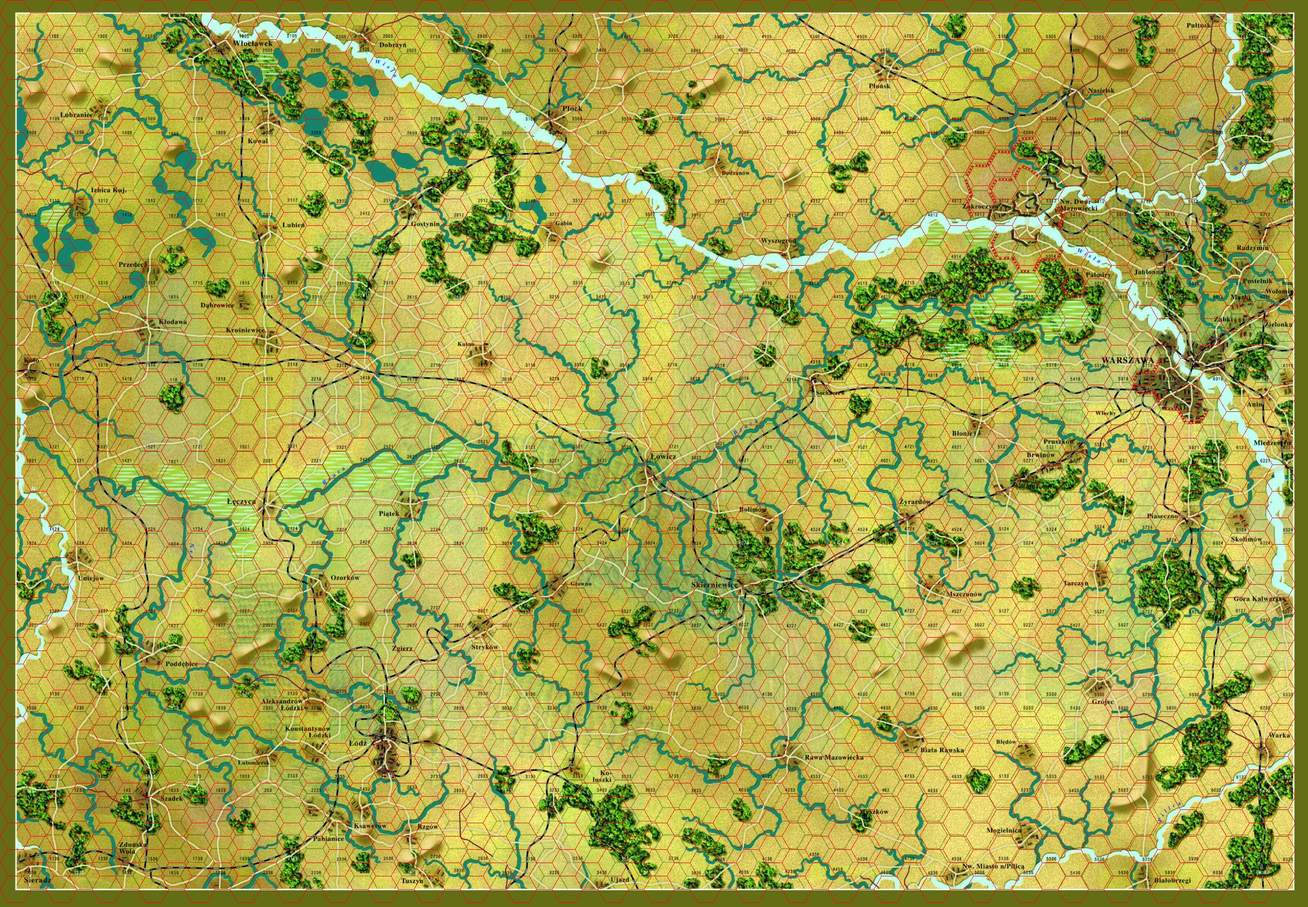
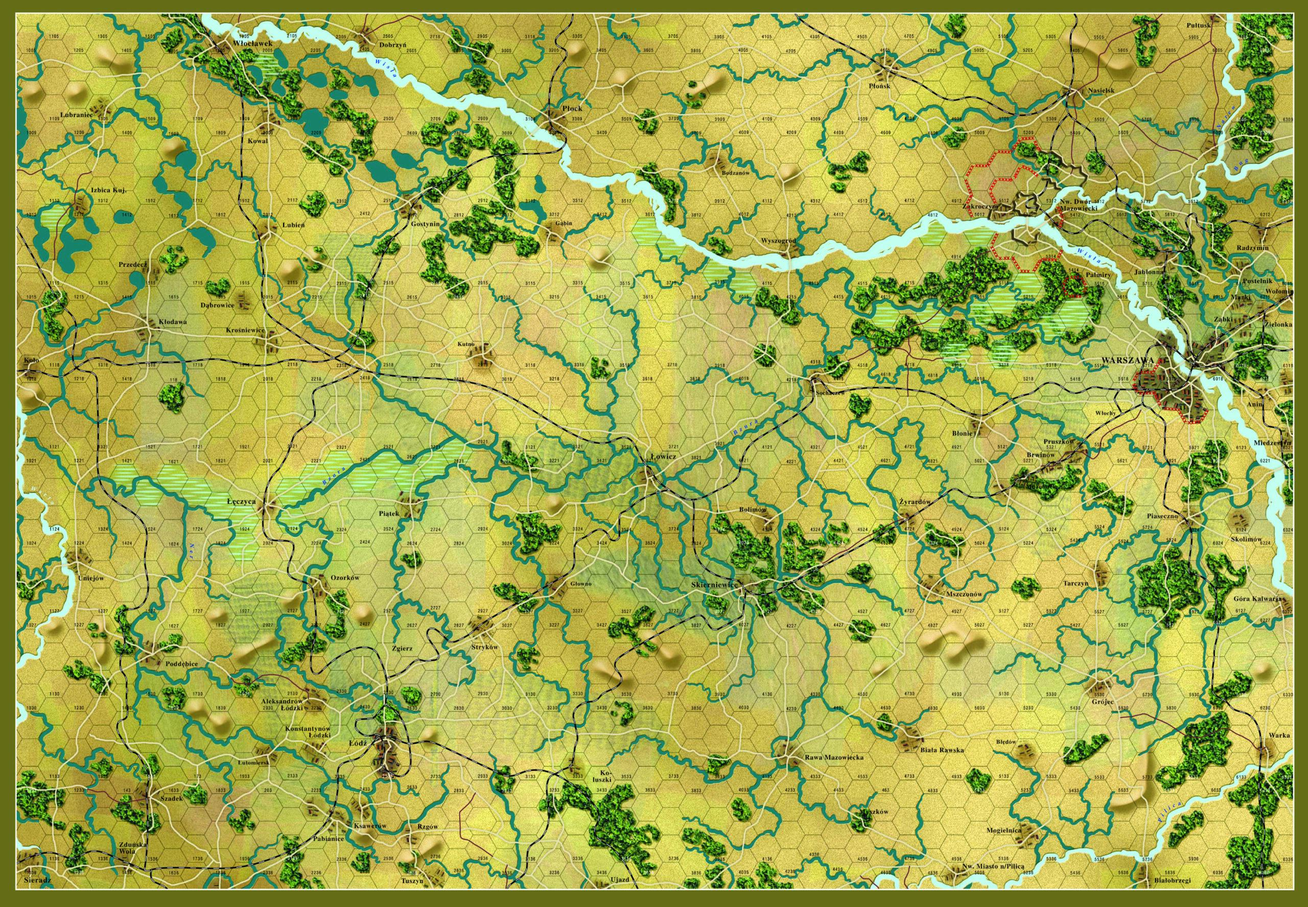
Eksport projektu

Changed region(s): [[0.0, 0.0, 1.0, 1.0]]

diff --git a/stare kody/edytor testy/map_editor_prototyptest1.py b/stare kody/edytor testy/map_editor_prototyptest1.py
@@ -79,6 +79,13 @@ def get_hex_vertices(center_x, center_y, s):
         (center_x - s/2, center_y + (math.sqrt(3)/2)*s)
     ]
 
+# Ścieżki docelowe w folderze mapa_cyfrowa
+DEST_FOLDER = "c:/Users/klif/kampania1939_fixed/gui/mapa_cyfrowa"
+DEST_GLOBAL_MAP = f"{DEST_FOLDER}/mapa_globalna.jpg"
+DEST_COMMANDER1_MAP = f"{DEST_FOLDER}/mapa_dowodca1.jpg"
+DEST_COMMANDER2_MAP = f"{DEST_FOLDER}/mapa_dowodca2.jpg"
+DEST_DATA_FILE = f"{DEST_FOLDER}/mapa_dane.json"
+
 class MapEditor:
     def __init__(self, root, config):
         self.root = root
@@ -427,105 +434,45 @@ class MapEditor:
             self.draw_grid()
             messagebox.showinfo("Zresetowano", "Mapa została zresetowana do domyślnego terenu płaskiego.")
 
-    def save_map_as_image(self):
-        'Zapisuje obrazy mapy (globalnej i podmap) oraz dane JSON.'
-        base_dir = DEFAULT_MAP_DIR
-        global_dir = os.path.join(base_dir, "global")
-        podmap1_dir = os.path.join(base_dir, "podmapa1")
-        podmap2_dir = os.path.join(base_dir, "podmapa2")
-        # Tworzenie folderów, jeśli nie istnieją
-        os.makedirs(global_dir, exist_ok=True)
-        os.makedirs(podmap1_dir, exist_ok=True)
-        os.makedirs(podmap2_dir, exist_ok=True)
-
-        # Ścieżki plików wyjściowych
-        image_path = os.path.join(global_dir, "mapa_hex.png")
-        data_path = os.path.join(global_dir, "mapa_dane.json")
-        podmap1_image_path = os.path.join(podmap1_dir, "mapa_hex.png")
-        podmap2_image_path = os.path.join(podmap2_dir, "mapa_hex.png")
+    def save_files(self):
+        """Zapisuje pliki map i dane JSON do folderu mapa_cyfrowa."""
+        # Tworzenie folderu, jeśli nie istnieje
+        os.makedirs(DEST_FOLDER, exist_ok=True)
 
         try:
-            draw_labels = False  # Etykiety ruch/obrona wyłączone
+            # Zapisanie mapy globalnej
+            self.bg_image.save(DEST_GLOBAL_MAP)
+            print(f"[INFO] Zapisano mapę globalną: {DEST_GLOBAL_MAP}")
 
-            # --- Rysowanie mapy globalnej ---
-            img = self.bg_image.copy().convert("RGBA")
-            draw = ImageDraw.Draw(img)
-
-            s = self.hex_size
-            hex_height = math.sqrt(3) * s
-            horizontal_spacing = 1.5 * s
-            grid_cols = self.config.get("grid_cols")
-            grid_rows = self.config.get("grid_rows")
-
-            for col in range(grid_cols):
-                center_x = s + col * horizontal_spacing
-                for row in range(grid_rows):
-                    center_y = (s * math.sqrt(3) / 2) + row * hex_height
-                    if col % 2 == 1:
-                        center_y += hex_height / 2
-                    if center_x + s > self.world_width or center_y + (s * math.sqrt(3) / 2) > self.world_height:
-                        continue
-                    points = get_hex_vertices(center_x, center_y, s)
-                    draw.polygon(points, outline="red")
-
-            img.save(image_path)
-
-            # --- Tworzenie podmap (górna i dolna połowa) ---
+            # Zapisanie map dowódców (przykład: podział na pół mapy)
             mid_pixel = self.world_height // 2
-            img_top = img.crop((0, 0, self.world_width, mid_pixel))
-            img_bottom = img.crop((0, mid_pixel, self.world_width, self.world_height))
-            img_top.save(podmap1_image_path)
-            img_bottom.save(podmap2_image_path)
+            img_top = self.bg_image.crop((0, 0, self.world_width, mid_pixel))
+            img_bottom = self.bg_image.crop((0, mid_pixel, self.world_width, self.world_height))
+            img_top.save(DEST_COMMANDER1_MAP)
+            img_bottom.save(DEST_COMMANDER2_MAP)
+            print(f"[INFO] Zapisano mapy dowódców: {DEST_COMMANDER1_MAP}, {DEST_COMMANDER2_MAP}")
 
-            # Przygotowanie danych JSON
-            terrain1 = {}
-            terrain2 = {}
-            spawn1 = {}
-            spawn2 = {}
-
-            for hex_id, terrain in self.hex_data.items():
-                row = int(hex_id.split('_')[1])
-                if row < grid_rows // 2:
-                    terrain1[hex_id] = terrain
-                else:
-                    terrain2[hex_id] = terrain
-
-            for nation, hexes in self.spawn_points.items():
-                spawn1[nation] = []
-                spawn2[nation] = []
-                for hex_id in hexes:
-                    row = int(hex_id.split('_')[1])
-                    if row < grid_rows // 2:
-                        spawn1[nation].append(hex_id)
-                    else:
-                        spawn2[nation].append(hex_id)
-
-            map_global = {
+            # Zapisanie danych JSON
+            map_data = {
                 "terrain": self.hex_data,
-                "spawn_points": self.spawn_points,
-                "image_path": "global/mapa_hex.png"
+                "key_points": self.key_points,
+                "spawn_points": self.spawn_points
             }
-            map_sub1 = {
-                "terrain": terrain1,
-                "spawn_points": spawn1,
-                "image_path": "podmapa1/mapa_hex.png"
-            }
-            map_sub2 = {
-                "terrain": terrain2,
-                "spawn_points": spawn2,
-                "image_path": "podmapa2/mapa_hex.png"
-            }
-            full_data = {
-                "global": map_global,
-                "podmapa1": map_sub1,
-                "podmapa2": map_sub2
-            }
-            with open(data_path, "w", encoding="utf-8") as f:
-                json.dump(full_data, f, indent=2, ensure_ascii=False)
+            with open(DEST_DATA_FILE, "w", encoding="utf-8") as f:
+                json.dump(map_data, f, indent=2, ensure_ascii=False)
+            print(f"[INFO] Zapisano dane mapy: {DEST_DATA_FILE}")
 
-            messagebox.showinfo("Zapisano", f"Mapa globalna i podmapy zapisano w:\n{global_dir}\n{podmap1_dir}\n{podmap2_dir}")
         except Exception as e:
-            messagebox.showerror("Błąd", f"Nie udało się zapisać mapy:\n{str(e)}")
+            print(f"[ERROR] Nie udało się zapisać plików: {e}")
+
+    def save_map_as_image(self):
+        """Zapisuje obrazy mapy i dane JSON."""
+        try:
+            # Zapisz mapę globalną i dane
+            self.save_files()
+            print("[INFO] Mapa i dane zostały zapisane w folderze mapa_cyfrowa.")
+        except Exception as e:
+            print(f"[ERROR] Nie udało się zapisać mapy: {e}")
 
     def add_key_point_dialog(self):
         'Okno dialogowe do dodawania kluczowego punktu na wybranym heksie.'

diff --git a/model/gracz.py b/model/gracz.py
@@ -28,9 +28,15 @@ class Gracz:
         elif self.nacja == "Niemcy" and self.rola == "Generał":
             self.image_path = base_path + "Generał pułkownik Walther von Brauchitsch.png"
         elif self.nacja == "Polska" and self.rola == "Dowódca":
-            self.image_path = base_path + "Generał Tadeusz Kutrzeba.png"
+            if self.numer == 2:  # Dowódca 2 Polska
+                self.image_path = base_path + "Generał Juliusz Rómmel.png"
+            else:  # Dowódca 1 Polska
+                self.image_path = base_path + "Generał Tadeusz Kutrzeba.png"
         elif self.nacja == "Niemcy" and self.rola == "Dowódca":
-            self.image_path = base_path + "Generał Fedor von Bock.png"
+            if self.numer == 6:  # Dowódca 2 Niemcy
+                self.image_path = base_path + "Generał Walther von Reichenau.png"
+            else:  # Dowódca 1 Niemcy
+                self.image_path = base_path + "Generał Fedor von Bock.png"
         else:
             self.image_path = base_path + "default.png"  # Domyślny obraz, jeśli nie pasuje żadna rola/nacja
 
@@ -40,9 +46,15 @@ class Gracz:
         elif self.nacja == "Niemcy" and self.rola == "Generał":
             self.map_path = "c:/Users/klif/kampania1939_fixed/gui/mapa_cyfrowa/mapa_globalna.jpg"
         elif self.nacja == "Polska" and self.rola == "Dowódca":
-            self.map_path = "c:/Users/klif/kampania1939_fixed/gui/mapa_cyfrowa/mapa_dowodca1.jpg"
+            if self.numer == 2:  # Dowódca 2 Polska
+                self.map_path = "c:/Users/klif/kampania1939_fixed/gui/mapa_cyfrowa/mapa_dowodca2.jpg"
+            else:  # Dowódca 1 Polska
+                self.map_path = "c:/Users/klif/kampania1939_fixed/gui/mapa_cyfrowa/mapa_dowodca1.jpg"
         elif self.nacja == "Niemcy" and self.rola == "Dowódca":
-            self.map_path = "c:/Users/klif/kampania1939_fixed/gui/mapa_cyfrowa/mapa_dowodca2.jpg"
+            if self.numer == 6:  # Dowódca 2 Niemcy
+                self.map_path = "c:/Users/klif/kampania1939_fixed/gui/mapa_cyfrowa/mapa_dowodca2.jpg"
+            else:  # Dowódca 1 Niemcy
+                self.map_path = "c:/Users/klif/kampania1939_fixed/gui/mapa_cyfrowa/mapa_dowodca1.jpg"
         else:
             self.map_path = "c:/Users/klif/kampania1939_fixed/gui/mapa_cyfrowa/mapa_hex.jpg"  # Domyślna mapa, jeśli nie pasuje żadna rola/nacja
 
@@ -52,9 +64,15 @@ class Gracz:
         elif self.nacja == "Niemcy" and self.rola == "Generał":
             self.name = "Generał pułkownik Walther von Brauchitsch"
         elif self.nacja == "Polska" and self.rola == "Dowódca":
-            self.name = "Generał Tadeusz Kutrzeba"
+            if self.numer == 2:  # Dowódca 2 Polska
+                self.name = "Generał Juliusz Rómmel"
+            else:  # Dowódca 1 Polska
+                self.name = "Generał Tadeusz Kutrzeba"
         elif self.nacja == "Niemcy" and self.rola == "Dowódca":
-            self.name = "Generał Fedor von Bock"
+            if self.numer == 6:  # Dowódca 2 Niemcy
+                self.name = "Generał Walther von Reichenau"
+            else:  # Dowódca 1 Niemcy
+                self.name = "Generał Fedor von Bock"
         else:
             self.name = "Nieznany Gracz"  # Domyślna nazwa, jeśli nie pasuje żadna rola/nacja
 
